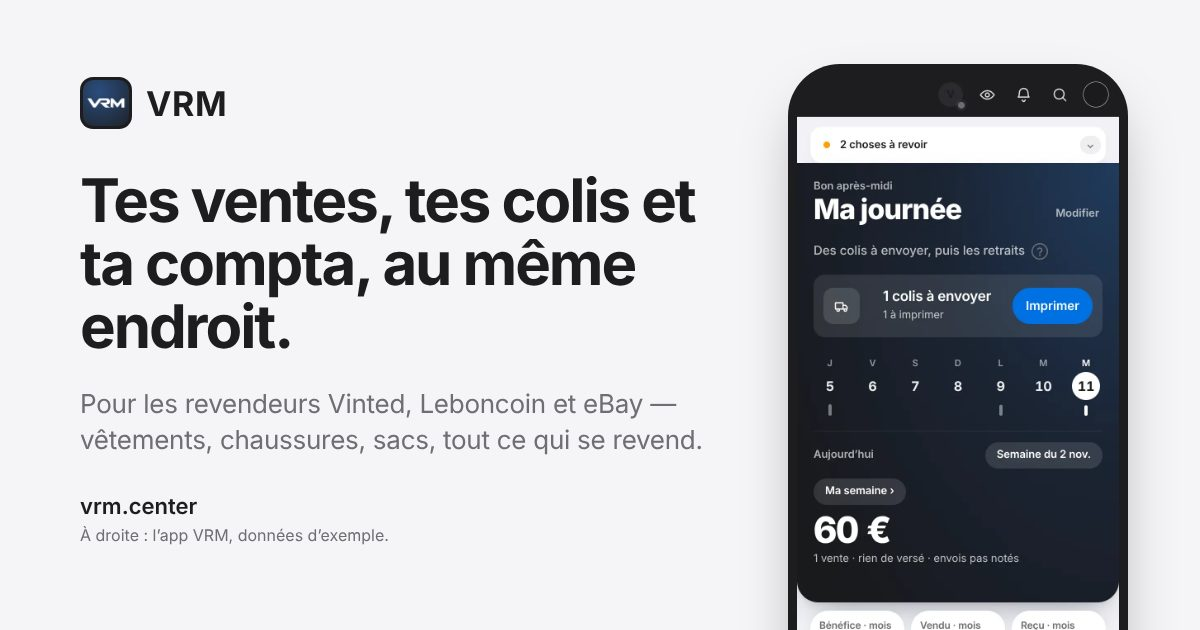
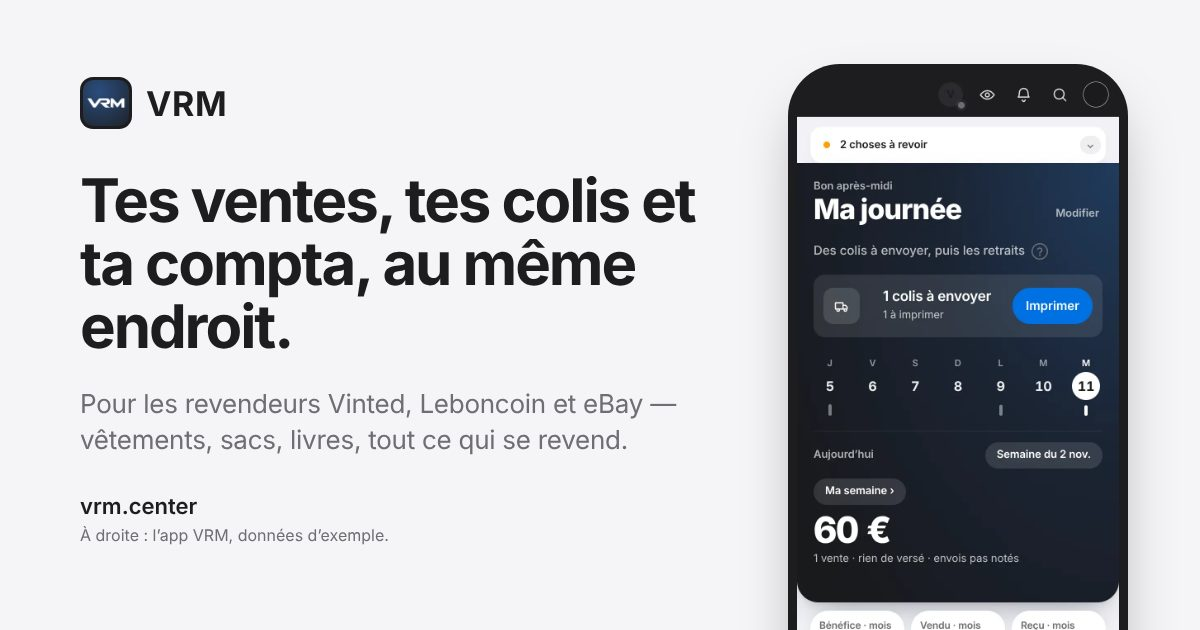
Accueil public : textes courts et généralistes, bouton « Essayer gratuitement », image de partage régénérée
Claude-Session: https://claude.ai/code/session_01L9qoLLhYCa3AmxbfTncTYZ

Changed region(s): [[0.185, 0.6635, 0.5858, 0.7238]]

diff --git a/src/Accueil.jsx b/src/Accueil.jsx
@@ -72,7 +72,7 @@ const MOMENTS = [
   },
   {
     id: 'numeros', capture: 'numeros',
-    alt: 'L’écran Annonces de VRM : chaque article en ligne porte son numéro de rangement en pastille noire — N°12 une paire d’Air Max 90 à 110 €, N°11 une veste en jean à 105 €. Données d’exemple.',
+    alt: 'L’écran Annonces de VRM : chaque article en ligne porte son numéro de rangement en pastille noire — N°12 à 110 €, N°11 une veste en jean à 105 €. Données d’exemple.',
     titre: 'Un numéro par article. Jamais deux fois.',
     texte: 'Chaque annonce reçoit un numéro de rangement : il dit où est l’article (carton, étagère, bac…). Une vente est reliée à son article par une identité — l’annonce, la photo, la transaction —, jamais par un titre qui se ressemble.',
     points: ['Un numéro n’est jamais redonné à un autre article.', 'Deux articles sous un même numéro : VRM te le dit, en rouge, tout de suite.'],
@@ -301,7 +301,7 @@ export default function Accueil({ onEntrer }) {
     return () => { try { mq && mq.removeEventListener && mq.removeEventListener('change', poser); } catch (_) {} document.body.style.background = avant; document.title = titre; };
   }, []);
 
-  // La barre : le fond dès 8 px ; « Créer mon compte » n'y paraît que quand le
+  // La barre : le fond dès 8 px ; « Essayer gratuitement » n'y paraît que quand le
   // bouton du haut est sorti de l'écran (un seul bouton principal à la fois).
   const sentinelle = React.useRef(null), ctaHaut = React.useRef(null);
   const [defile, setDefile] = React.useState(false);
@@ -361,7 +361,7 @@ export default function Accueil({ onEntrer }) {
   // ⚠ Des fonctions qui RENDENT un bouton, pas des composants déclarés ici
   //    (un composant redéfini à chaque rendu perdrait le focus clavier).
   const creer = (extra) => (
-    <a href="/?inscription" className="av-btn" data-cta="inscription" onPointerEnter={prepare} onFocus={prepare} onClick={entrer('up')} {...extra}>Créer mon compte</a>
+    <a href="/?inscription" className="av-btn" data-cta="inscription" onPointerEnter={prepare} onFocus={prepare} onClick={entrer('up')} {...extra}>Essayer gratuitement</a>
   );
   const connexion = (extra) => (
     <a href="/?connexion" className="av-lien" onPointerEnter={prepare} onFocus={prepare} onClick={entrer('in')} {...extra}>Se connecter<span aria-hidden="true">›</span></a>
@@ -385,7 +385,7 @@ export default function Accueil({ onEntrer }) {
             <a href="/aide">Aide</a>
           </nav>
           <div className="av-droite">
-            <a href="/?inscription" className={`av-btn${ctaNav ? ' la' : ''}`} data-cta-nav="inscription" tabIndex={ctaNav ? 0 : -1} aria-hidden={ctaNav ? undefined : 'true'} onPointerEnter={prepare} onFocus={prepare} onClick={entrer('up')}>Créer mon compte</a>
+            <a href="/?inscription" className={`av-btn${ctaNav ? ' la' : ''}`} data-cta-nav="inscription" tabIndex={ctaNav ? 0 : -1} aria-hidden={ctaNav ? undefined : 'true'} onPointerEnter={prepare} onFocus={prepare} onClick={entrer('up')}>Essayer gratuitement</a>
             <a href="/?connexion" className="av-lien" data-cta-nav="connexion" onPointerEnter={prepare} onFocus={prepare} onClick={entrer('in')}>Se connecter</a>
           </div>
         </div>
@@ -394,9 +394,9 @@ export default function Accueil({ onEntrer }) {
       <main>
         <section className="av-hero" data-section="hero">
           <div className="av-in">
-            <p className="av-pour" data-pour-qui="">L’outil des revendeurs Vinted, Leboncoin et eBay</p>
+            <p className="av-pour" data-pour-qui="">L’outil des revendeurs Vinted, Leboncoin et eBay. Tous articles.</p>
             <h1 className="av-h1" data-definition="">Tes ventes, tes colis et ta compta, au même endroit.</h1>
-            <p className="av-sous">Chaque matin, VRM te dit quoi faire — colis, retraits, offres, URSSAF — sans te tromper d’article. Vêtements, chaussures, sacs : tout ce qui se revend.</p>
+            <p className="av-sous">Chaque matin, VRM te dit quoi faire, sans te tromper d’article.</p>
             <div className="av-actions">
               {creer({ ref: ctaHaut })}
               {connexion({ 'data-cta': 'connexion' })}
@@ -425,7 +425,7 @@ export default function Accueil({ onEntrer }) {
           <div className="av-in">
             <div className="av-journee-tete" data-reveil="">
               <h2 className="av-h2">Ta journée de revendeur, en cinq moments.</h2>
-              <p className="av-chapo">Le matin, au relais, au stock, avec tes acheteurs, en fin de mois : ce qu’il y a à faire, rien de plus.</p>
+              <p className="av-chapo">Le matin, au relais, au stock, avec tes acheteurs, en fin de mois.</p>
             </div>
             <div className="av-split">
               <div className="av-plateau" aria-hidden="true">
@@ -482,7 +482,7 @@ export default function Accueil({ onEntrer }) {
           <div className="av-in">
             <div className="av-prix-tete" data-reveil="">
               <h2 className="av-h2">Deux offres. Tout VRM.</h2>
-              <p className="av-chapo">Toutes les fonctions, l’extension et l’app sur ton téléphone, dans les deux. La seule différence : combien de tes comptes vendent.</p>
+              <p className="av-chapo">Toutes les fonctions dans les deux. La seule différence : combien de tes comptes vendent.</p>
             </div>
             <div className="av-offres" data-reveil="">
               {/* Les noms et les phrases : OFFRES (api/_lib/plan-regle.js, la phrase

diff --git a/index.html b/index.html
@@ -53,7 +53,7 @@
   <meta property="og:locale" content="fr_FR" />
   <meta property="og:site_name" content="VRM" />
   <meta property="og:title" content="VRM — tes ventes, tes colis et ta compta, au même endroit" />
-  <meta property="og:description" content="Pour les revendeurs Vinted, Leboncoin et eBay — vêtements, chaussures, sacs, tout ce qui se revend." />
+  <meta property="og:description" content="Pour les revendeurs Vinted, Leboncoin et eBay — vêtements, sacs, livres, tout ce qui se revend." />
   <meta property="og:url" content="https://vrm.center/" />
   <meta property="og:image" content="https://vrm.center/og-vrm.jpg" />
   <meta property="og:image:type" content="image/jpeg" />
